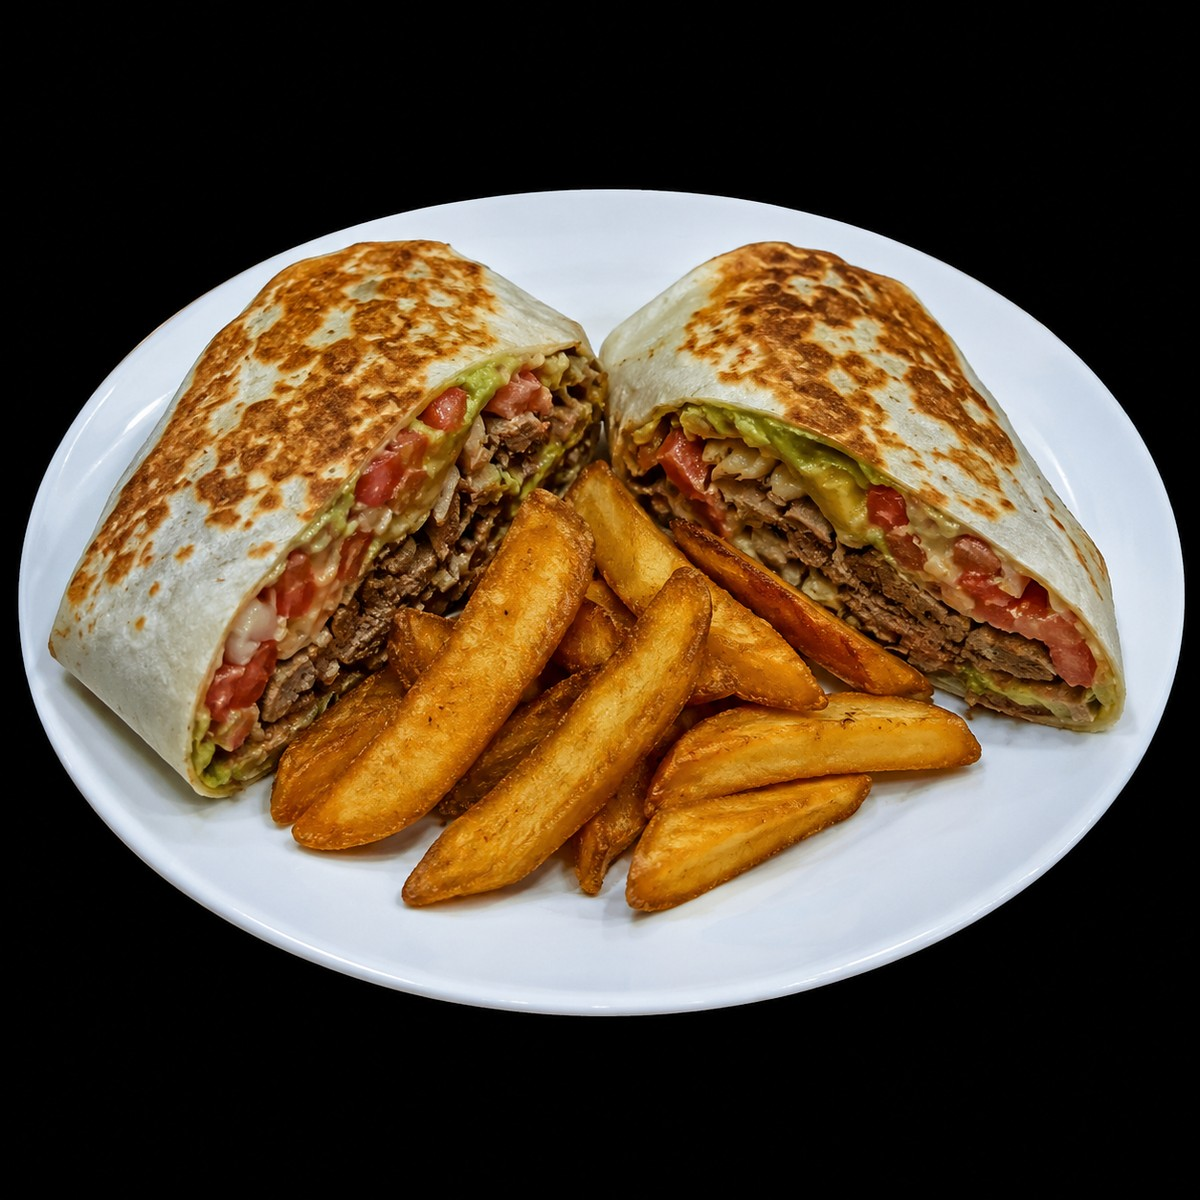
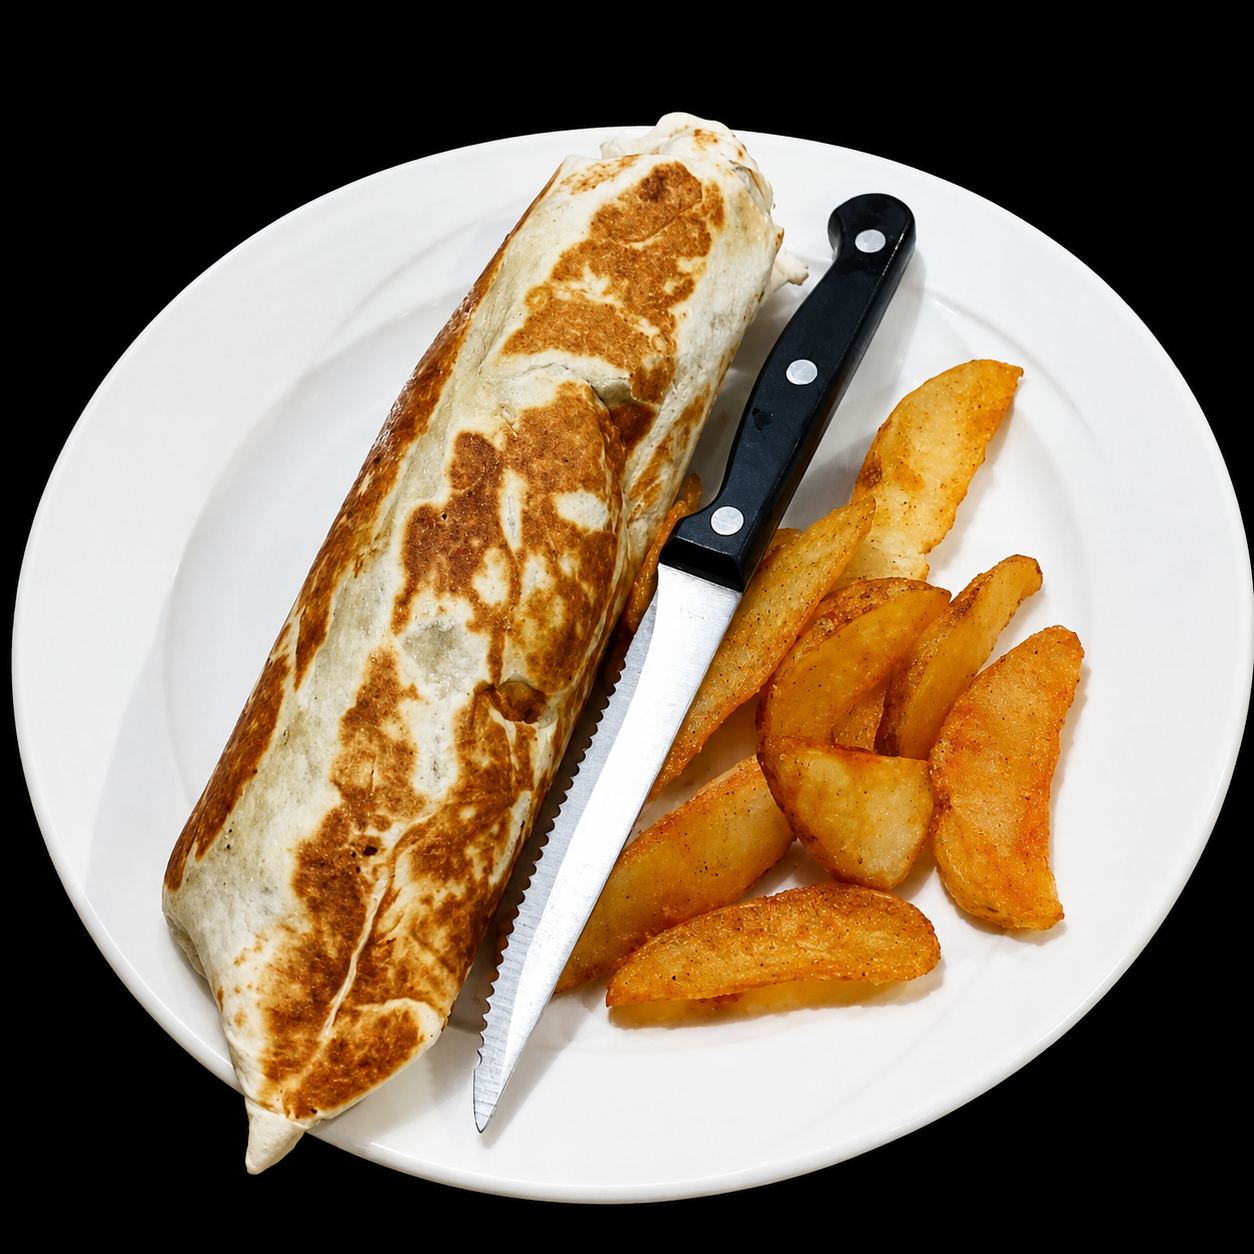
Actualizar precios e imagenes de GAES

diff --git a/src/negocios.js b/src/negocios.js
@@ -2060,17 +2060,17 @@ const negocios = [
         descripcion: "Hamburguesas con papas y diferentes especialidades.",
         textoSelector: "Elige tu hamburguesa:",
         opciones: [
-          { id: "hamburguesa-sin-papas-gaes", nombre: "Hamburguesa sin papas", precio: 60, descripcion: "Hamburguesa sin papas." , extras: EXTRAS_HAMBURGUESAS_GAES, textoExtras: "Agrega extras para tu hamburguesa:"},
-          { id: "hamburguesa-sencilla-gaes", nombre: "Hamburguesa sencilla", precio: 68, descripcion: "Incluye papas." , extras: EXTRAS_HAMBURGUESAS_GAES, textoExtras: "Agrega extras para tu hamburguesa:"},
-          { id: "hamburguesa-bbq-gaes", nombre: "Hamburguesa B.B.Q.", precio: 78, descripcion: "Incluye papas." , extras: EXTRAS_HAMBURGUESAS_GAES, textoExtras: "Agrega extras para tu hamburguesa:"},
-          { id: "hamburguesa-quesillo-gaes", nombre: "Hamburguesa de quesillo", precio: 78, descripcion: "Incluye papas." , extras: EXTRAS_HAMBURGUESAS_GAES, textoExtras: "Agrega extras para tu hamburguesa:"},
-          { id: "hamburguesa-hawaiana-gaes", nombre: "Hamburguesa hawaiana", precio: 78, descripcion: "Incluye papas." , extras: EXTRAS_HAMBURGUESAS_GAES, textoExtras: "Agrega extras para tu hamburguesa:"},
-          { id: "hamburguesa-chipotle-gaes", nombre: "Hamburguesa chipotle", precio: 78, descripcion: "Incluye papas." , extras: EXTRAS_HAMBURGUESAS_GAES, textoExtras: "Agrega extras para tu hamburguesa:"},
-          { id: "hamburguesa-habanero-gaes", nombre: "Hamburguesa habanero", precio: 78, descripcion: "Incluye papas." , extras: EXTRAS_HAMBURGUESAS_GAES, textoExtras: "Agrega extras para tu hamburguesa:"},
-          { id: "hamburguesa-doble-carne-gaes", nombre: "Hamburguesa doble carne", precio: 88, descripcion: "Incluye papas. 2 carnes, 2 jamón, 2 quesos amarillo, lechuga, tomate y cebolla." , extras: EXTRAS_HAMBURGUESAS_GAES, textoExtras: "Agrega extras para tu hamburguesa:"},
-          { id: "hamburguesa-mango-habanero-gaes", nombre: "Hamburguesa mango habanero", precio: 88, descripcion: "Incluye papas. Carne de res, salsa de mango, aros de cebolla empanizados, jamón de pavo, queso amarillo, lechuga, tomate y cebolla." , extras: EXTRAS_HAMBURGUESAS_GAES, textoExtras: "Agrega extras para tu hamburguesa:"},
-          { id: "hamburguesa-bbq-chipotle-gaes", nombre: "Hamburguesa B.B.Q. chipotle", precio: 88, descripcion: "Incluye papas. Carne de res, jamón de pavo, queso amarillo, salsas, aros de cebolla empanizados, lechuga, tomate y cebolla." , extras: EXTRAS_HAMBURGUESAS_GAES, textoExtras: "Agrega extras para tu hamburguesa:"},
-          { id: "hamburguesa-gaes-especial", nombre: "Hamburguesa GAES", precio: 98, descripcion: "Incluye papas. Carne de res, jamón de pavo, queso amarillo, piña, tocino, tomate, cebolla y lechuga." , extras: EXTRAS_HAMBURGUESAS_GAES, textoExtras: "Agrega extras para tu hamburguesa:"},
+          { id: "hamburguesa-sin-papas-gaes", nombre: "Hamburguesa sin papas", precio: 68, descripcion: "Hamburguesa sin papas." , extras: EXTRAS_HAMBURGUESAS_GAES, textoExtras: "Agrega extras para tu hamburguesa:"},
+          { id: "hamburguesa-sencilla-gaes", nombre: "Hamburguesa sencilla", precio: 75, descripcion: "Incluye papas." , extras: EXTRAS_HAMBURGUESAS_GAES, textoExtras: "Agrega extras para tu hamburguesa:"},
+          { id: "hamburguesa-bbq-gaes", nombre: "Hamburguesa B.B.Q.", precio: 85, descripcion: "Incluye papas." , extras: EXTRAS_HAMBURGUESAS_GAES, textoExtras: "Agrega extras para tu hamburguesa:"},
+          { id: "hamburguesa-quesillo-gaes", nombre: "Hamburguesa de quesillo", precio: 85, descripcion: "Incluye papas." , extras: EXTRAS_HAMBURGUESAS_GAES, textoExtras: "Agrega extras para tu hamburguesa:"},
+          { id: "hamburguesa-hawaiana-gaes", nombre: "Hamburguesa hawaiana", precio: 85, descripcion: "Incluye papas." , extras: EXTRAS_HAMBURGUESAS_GAES, textoExtras: "Agrega extras para tu hamburguesa:"},
+          { id: "hamburguesa-chipotle-gaes", nombre: "Hamburguesa chipotle", precio: 85, descripcion: "Incluye papas." , extras: EXTRAS_HAMBURGUESAS_GAES, textoExtras: "Agrega extras para tu hamburguesa:"},
+          { id: "hamburguesa-habanero-gaes", nombre: "Hamburguesa habanero", precio: 85, descripcion: "Incluye papas." , extras: EXTRAS_HAMBURGUESAS_GAES, textoExtras: "Agrega extras para tu hamburguesa:"},
+          { id: "hamburguesa-doble-carne-gaes", nombre: "Hamburguesa doble carne", precio: 95, descripcion: "Incluye papas. 2 carnes, 2 jamón, 2 quesos amarillo, lechuga, tomate y cebolla." , extras: EXTRAS_HAMBURGUESAS_GAES, textoExtras: "Agrega extras para tu hamburguesa:"},
+          { id: "hamburguesa-mango-habanero-gaes", nombre: "Hamburguesa mango habanero", precio: 95, descripcion: "Incluye papas. Carne de res, salsa de mango, aros de cebolla empanizados, jamón de pavo, queso amarillo, lechuga, tomate y cebolla." , extras: EXTRAS_HAMBURGUESAS_GAES, textoExtras: "Agrega extras para tu hamburguesa:"},
+          { id: "hamburguesa-bbq-chipotle-gaes", nombre: "Hamburguesa B.B.Q. chipotle", precio: 95, descripcion: "Incluye papas. Carne de res, jamón de pavo, queso amarillo, salsas, aros de cebolla empanizados, lechuga, tomate y cebolla." , extras: EXTRAS_HAMBURGUESAS_GAES, textoExtras: "Agrega extras para tu hamburguesa:"},
+          { id: "hamburguesa-gaes-especial", nombre: "Hamburguesa GAES", precio: 105, descripcion: "Incluye papas. Carne de res, jamón de pavo, queso amarillo, piña, tocino, tomate, cebolla y lechuga." , extras: EXTRAS_HAMBURGUESAS_GAES, textoExtras: "Agrega extras para tu hamburguesa:"},
         ],
       },
       {
@@ -2154,7 +2154,7 @@ const negocios = [
       },
       {
         id: "paquetazo-alitas-gaes",
-        imagen: "/productos/gaes-paquetes.jpg",
+        imagen: "/productos/gaes-paquetazo.jpg",
         nombre: "Paquetazo alitas",
         precio: 358,
         descripcion: "12 alitas, papas gajo, 8 aros de cebolla, 6 dedos de queso, nachos y aderezos. Elige 2 salsas.",
@@ -2165,7 +2165,7 @@ const negocios = [
       },
       {
         id: "paquete-mix-alitas-gaes",
-        imagen: "/productos/gaes-paquetes.jpg",
+        imagen: "/productos/gaes-paquete-mix.jpg",
         nombre: "Paquete mix alitas",
         precio: 230,
         descripcion: "16 piezas, papas gajo, nachos y aderezo. Elige 2 salsas.",
@@ -2176,7 +2176,7 @@ const negocios = [
       },
       {
         id: "platon-gaes",
-        imagen: "/productos/gaes-paquetes.jpg",
+        imagen: "/productos/gaes-platon.jpg",
         nombre: "Platón GAES",
         precio: 370,
         descripcion: "4 boneless, 8 alitas, 4 dedos de queso, 6 aros de cebolla, papas gajo y club sandwich. Elige 2 salsas.",
@@ -2187,7 +2187,7 @@ const negocios = [
       },
       {
         id: "paquete-amigos-gaes",
-        imagen: "/productos/gaes-paquetes.jpg",
+        imagen: "/productos/gaes-paquete-amigos.jpg",
         nombre: "Paquete amigos",
         precio: 235,
         descripcion: "8 alitas, 8 boneless, papas gajo y aderezos. Elige 2 salsas.",